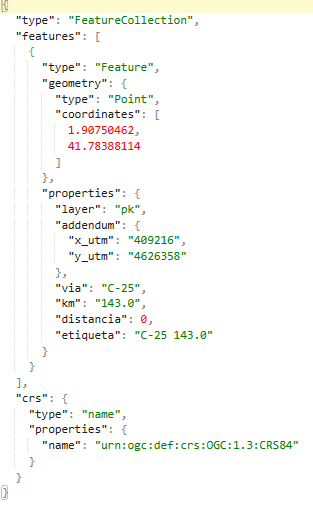
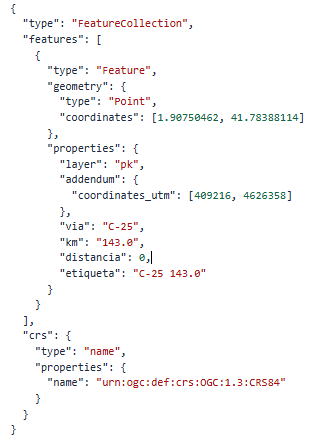
Deployed 7de0b99 with MkDocs version: 1.5.3

diff --git a/parametres_cerca/index.html b/parametres_cerca/index.html
@@ -1525,13 +1525,8 @@
 <td>Adreces</td>
 </tr>
 <tr>
-<td><strong>addendum.x_utm</strong></td>
-<td>Coordenada X UTM</td>
-<td>Tots</td>
-</tr>
-<tr>
-<td><strong>addendum.y_utm</strong></td>
-<td>Coordenada Y UTM</td>
+<td><strong>addendum.coordinates_utm</strong></td>
+<td>Coordenades UTM</td>
 <td>Tots</td>
 </tr>
 <tr>
@@ -1555,7 +1550,7 @@
 </thead>
 <tbody>
 <tr>
-<td><a href="https://eines.icgc.cat/geocodificador/cerca?text=nou%2010%20girona&amp;layers=address&amp;size=1" target="_blank">https://eines.icgc.cat/geocodificador/cerca?text=nou%2010%20girona&amp;layers=address&amp;size=1</a></td>
+<td><a href="https://eines.icgc.cat/geocodificador/cerca?text=nou%2010%20,girona&amp;layers=address&amp;size=1" target="_blank">https://eines.icgc.cat/geocodificador/cerca?text=nou%2010%20,girona&amp;layers=address&amp;size=1</a></td>
 </tr>
 <tr>
 <td><img alt="" src="../img/cerca-adreces.png" /></td>

diff --git a/parametres_invers/index.html b/parametres_invers/index.html
@@ -1428,13 +1428,8 @@
 <td>Adreces</td>
 </tr>
 <tr>
-<td><strong>addendum.x_utm</strong></td>
-<td>Coordenada X UTM</td>
-<td>Tots</td>
-</tr>
-<tr>
-<td><strong>addendum.y_utm</strong></td>
-<td>Coordenada Y UTM</td>
+<td><strong>addendum.coordinates_utm</strong></td>
+<td>Coordenades UTM</td>
 <td>Tots</td>
 </tr>
 <tr>

diff --git a/parametres_autocompletar/index.html b/parametres_autocompletar/index.html
@@ -1532,8 +1532,8 @@
 <td>Adreces</td>
 </tr>
 <tr>
-<td><strong>addendum.x_utm</strong></td>
-<td>Coordenada X UTM</td>
+<td><strong>addendum.coordinates_utm</strong></td>
+<td>Coordenades UTM</td>
 <td>Tots</td>
 </tr>
 <tr>
